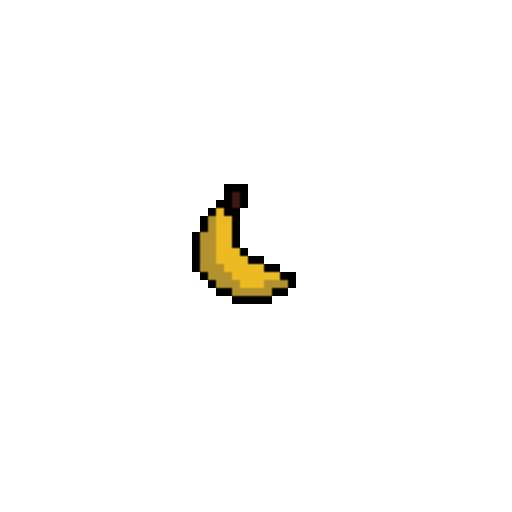
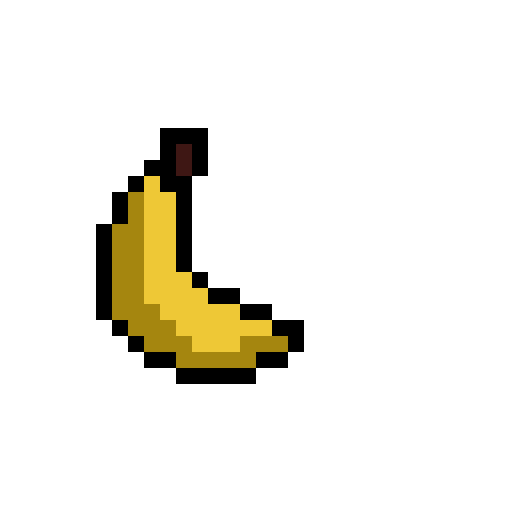
ingredients

Changed region(s): [[0.1875, 0.25, 0.5938, 0.75]]

diff --git a/ingredient.py b/ingredient.py
@@ -62,15 +62,15 @@ class Mixingpot:
 
 
 # ingredient object aanmaken : kleuren
-rood = Ingredient("rood", "kleur")
-geel = Ingredient("geel", "kleur")
-blauw = Ingredient("blauw", "kleur")
+# rood = Ingredient("rood", "kleur")
+# geel = Ingredient("geel", "kleur")
+# blauw = Ingredient("blauw", "kleur")
 
 
-# ingredient objecten aanmaken : smaken
-appel = Ingredient("appel", "smaak")
-banaan = Ingredient("banaan", "smaak")
-druif = Ingredient("druif", "smaak")
+# # ingredient objecten aanmaken : smaken
+# appel = Ingredient("appel", "smaak")
+# banaan = Ingredient("banaan", "smaak")
+# druif = Ingredient("druif", "smaak")
 #---------------------------------------------------------------------------------------------------------------
 
 
@@ -78,7 +78,9 @@ druif = Ingredient("druif", "smaak")
 class IngredientSprite:
     def __init__(self, ingredient, image_path, pos):
         self.ingredient = ingredient
-        self.image = pygame.image.load(image_path).convert_alpha()
+        # self.image = pygame.image.load(image_path).convert_alpha() 
+        self.image = pygame.transform.scale(pygame.image.load(image_path).convert_alpha(), (128, 128))
+
         self.rect = self.image.get_rect(topleft=pos)
 
     def draw(self, screen):
@@ -87,47 +89,48 @@ class IngredientSprite:
     def is_clicked(self, mouse_pos):
         return self.rect.collidepoint(mouse_pos)
 
-# sprite objecten aanmaken
-rood_sprite = IngredientSprite(rood, "ingredient_assets/kleur/snoep_red.png", (100, 500))
-geel_sprite = IngredientSprite(geel, "ingredient_assets/kleur/snoep_yellow.png", (200, 500))
-blauw_sprite = IngredientSprite(blauw, "ingredient_assets/kleur/snoep_blue.png", (300, 500))
+# # sprite objecten aanmaken
+# rood_sprite = IngredientSprite(rood, "ingredient_assets/kleur/snoep_red.png", (100, 500))
+# geel_sprite = IngredientSprite(geel, "ingredient_assets/kleur/snoep_yellow.png", (200, 500))
+# blauw_sprite = IngredientSprite(blauw, "ingredient_assets/kleur/snoep_blue.png", (300, 500))
 
 
-appel_sprite = IngredientSprite(appel, "ingredient_assets/smaak/appel.png", (600, 500))
-banaan_sprite = IngredientSprite(banaan, "ingredient_assets/smaak/banaan.png", (700, 500))
-druif_sprite = IngredientSprite(druif, "ingredient_assets/smaak/druif.png", (800, 500))
+# appel_sprite = IngredientSprite(appel, "ingredient_assets/smaak/appel.png", (600, 500))
+# banaan_sprite = IngredientSprite(banaan, "ingredient_assets/smaak/banaan.png", (700, 500))
+# druif_sprite = IngredientSprite(druif, "ingredient_assets/smaak/druif.png", (800, 500))
 
 
-# lijst met sprites:
-ingredient_sprites = [
-    rood_sprite, geel_sprite, blauw_sprite,
-    appel_sprite, banaan_sprite, druif_sprite
-]
+# # lijst met sprites:
+# ingredient_sprites = [
+#     rood_sprite, geel_sprite, blauw_sprite,
+#     appel_sprite, banaan_sprite, druif_sprite
+# ]
 
-# afbeeldingen koppelen aan juiste snoep recept
+# # afbeeldingen koppelen aan juiste snoep recept
 
 candy_images = {
     # Rood
-    "Rode appel snoep": "ingredient_assets/snoep/geel_banaan.png",
-    "Rode banaan snoep": "ingredient_assets/snoep/geel_banaan.png",
-    "Rode druif snoep": "ingredient_assets/snoep/geel_banaan.png",
+    "Rode appel snoep": "ingredient_assets/snoep/rood_appel.png",
+    "Rode banaan snoep": "ingredient_assets/snoep/rood_banaan.png",
+    "Rode druif snoep": "ingredient_assets/snoep/rood_grape.png",
 
     # Geel
-    "Gele appel snoep": "ingredient_assets/snoep/geel_banaan.png",
+    "Gele appel snoep": "ingredient_assets/snoep/geel_appel.png",
     "Gele banaan snoep": "ingredient_assets/snoep/geel_banaan.png",
-    "Gele druif snoep": "ingredient_assets/snoep/geel_banaan.png",
+    "Gele druif snoep": "ingredient_assets/snoep/geel_grape.png",
 
     # Blauw
-    "Blauwe appel snoep": "ingredient_assets/snoep/geel_banaan.png",
-    "Blauwe banaan snoep": "ingredient_assets/snoep/geel_banaan.png",
-    "Blauwe druif snoep": "ingredient_assets/snoep/geel_banaan.png",
+    "Blauwe appel snoep": "ingredient_assets/snoep/blauw_appel.png",
+    "Blauwe banaan snoep": "ingredient_assets/snoep/blauw_banaan.png",
+    "Blauwe druif snoep": "ingredient_assets/snoep/blauw_grape.png",
 }
 
 
 # zichtbaar snoepje op scherm
 class CandySprite:
     def __init__(self, candy_name, pos):
-        self.image = pygame.image.load(candy_images[candy_name]).convert_alpha()
+        # self.image = pygame.image.load(candy_images[candy_name]).convert_alpha()
+        self.image = pygame.transform.scale(pygame.image.load(candy_images[candy_name]).convert_alpha(), (128, 128))
         self.rect = self.image.get_rect(center=pos)
 
     def draw(self, screen):

diff --git a/game.py b/game.py
@@ -1,7 +1,7 @@
 import pygame
 from Environment.changing_rooms import create_rooms
 from avatar_movement import Avatar
-from ingredient import Ingredient, Mixingpot, IngredientSprite, CandySprite, recipes, ingredient_sprites
+from ingredient import Ingredient, Mixingpot, IngredientSprite, CandySprite, recipes
 
 
 
@@ -30,7 +30,15 @@ class Game:
 
         # ingredienten
         self.mixing_pot = Mixingpot()
-        self.ingredient_sprites = ingredient_sprites  # lijst van alle IngredientSprite objecten
+        self.ingredient_sprites = self.ingredient_sprites = [
+    IngredientSprite(Ingredient("rood","kleur"), "ingredient_assets/kleur/snoep_red.png", (800,150)),
+    IngredientSprite(Ingredient("geel","kleur"), "ingredient_assets/kleur/snoep_yellow.png", (950,150)),
+    IngredientSprite(Ingredient("blauw","kleur"), "ingredient_assets/kleur/snoep_blue.png", (1100,150)),
+
+    IngredientSprite(Ingredient("appel","smaak"), "ingredient_assets/smaak/appel.png", (800,275)),
+    IngredientSprite(Ingredient("banaan","smaak"), "ingredient_assets/smaak/banaan.png", (950,275)),
+    IngredientSprite(Ingredient("druif","smaak"), "ingredient_assets/smaak/grape.png", (1100,275))
+]  # lijst van alle IngredientSprite objecten
         self.current_candy_sprite = None
 
 
@@ -133,9 +141,15 @@ class Game:
         # Teken huidige kamer en speler
         self.screen.blit(self.current_room.image, (0, 0))
         self.player.render(self.screen)
-        
+            
+        # --- Teken box achter ingredienten ---
+        # Bepaal de grootte van de box (past bij je sprites)
+        box_rect = pygame.Rect(780, 130, 450, 320)  # (x, y, width, height)
+        pygame.draw.rect(self.screen, (50, 50, 50), box_rect)  # donkergrijze box
+        pygame.draw.rect(self.screen, (255, 255, 255), box_rect, 2)  # optioneel witte rand
 
-        # teken alle ingrediënten
+
+         # teken alle ingrediënten
         for sprite in self.ingredient_sprites:
             sprite.draw(self.screen)
 
@@ -154,3 +168,8 @@ class Game:
             self.draw()
 
         pygame.quit()
+
+
+if __name__ == "__main__":
+    game = Game()
+    game.run()

diff --git a/avatar_movement.py b/avatar_movement.py
@@ -80,7 +80,7 @@ class Avatar:
     def __init__(self, x, y, image_path):
         self.position = [x, 550]  # CHANGE BASED ON LOCATION Y PATH
         self.image = pygame.image.load(image_path).convert_alpha()
-        self.speed = 200
+        self.speed = 1000
 
     def update(self, elapsed_seconds, keys):
         if keys[pygame.K_RIGHT]:

diff --git a/Environment/changing_rooms.py b/Environment/changing_rooms.py
@@ -23,7 +23,7 @@ def create_rooms(screen_width, screen_height):
 
     rooms = {}
 
-    for index, image_path in enumerate(room_images):
+    for index, (room_name, image_path) in enumerate(room_images):
         rooms[index] = Room(index, image_path, screen_width, screen_height)
 
     # Assign neighbors
